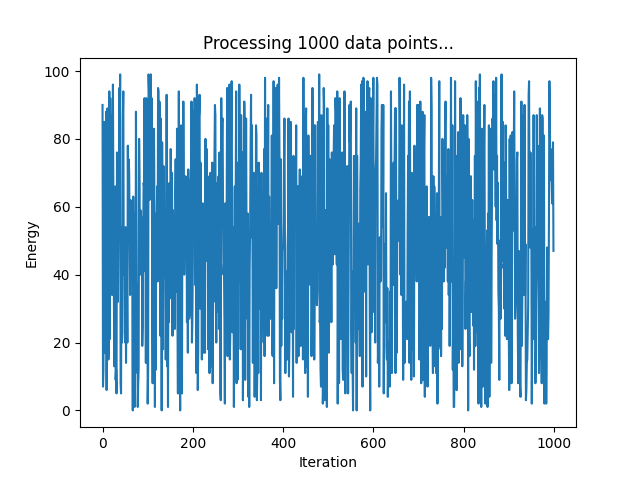
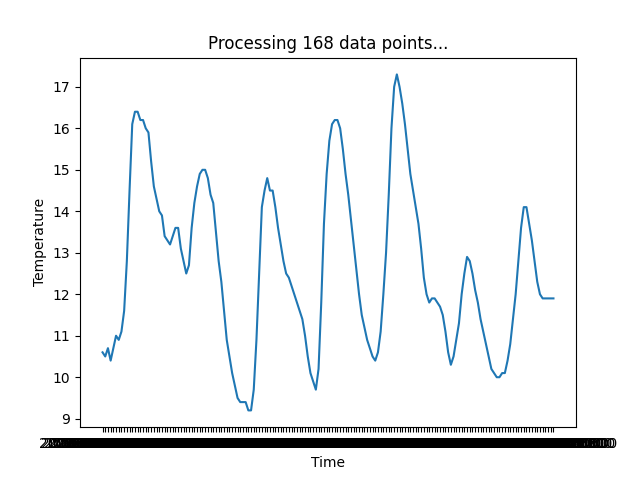
completed module 8 python

diff --git a/Python_Module_08/ex0/construct.py b/Python_Module_08/ex0/construct.py
@@ -1,15 +1,31 @@
+# construct.py
+# Simple utility that reports whether this Python process is running
+# inside a virtual environment (venv) or the global interpreter.
+
 import sys
 import os
 import site
 
+# If sys.prefix equals sys.base_prefix, Python is running in the global
+# (system) environment. When different, we are inside a virtual environment.
 if sys.prefix == sys.base_prefix:
+    # Not inside a venv
     print("\nMATRIX STATUS: You're still plugged in.\n")
-else:   
+else:
+    # Inside a virtual environment
     print("\nMATRIX STATUS:  Welcome to the construct\n")
 
+# Show which Python executable is in use
 print("Current Python:", sys.executable)
-print("Virtual Environment:", os.path.basename(sys.prefix) if sys.prefix != sys.base_prefix else "None detected")
+
+# Show the name of the virtual environment if present, otherwise say none
+print(
+    "Virtual Environment:",
+    os.path.basename(sys.prefix) if sys.prefix != sys.base_prefix else "None detected",
+)
+
 if sys.prefix == sys.base_prefix:
+    # Give guidance for creating and activating a virtual environment
     print("\nWARNING: You're in the global environment!")
     print("The machines can see everything you install.\n")
     print("To enter the construct, run:")
@@ -20,7 +36,9 @@ if sys.prefix == sys.base_prefix:
     print("activate # On Windows\n")
     print("Then run this program again.")
 else:
-   print(f"Environment Path: {sys.prefix}\n")
-   print("SUCCESS: You're in an isolated environment!")
-   print("Safe to install packages without affecting the global system.\n")
-   print("Package installation path:", site.getsitepackages()[0])
+    # In a venv — show path details and where packages will be installed
+    print(f"Environment Path: {sys.prefix}\n")
+    print("SUCCESS: You're in an isolated environment!")
+    print("Safe to install packages without affecting the global system.\n")
+    # site.getsitepackages()[0] is typically where pip installs packages
+    print("Package installation path:", site.getsitepackages()[0])

diff --git a/Python_Module_08/ex2/oracle.py b/Python_Module_08/ex2/oracle.py
@@ -4,10 +4,14 @@ from dotenv import load_dotenv
 
 
 def load_configuration():
+    # Read environment variables from a .env file into os.environ.
+    # This keeps secrets and config out of source code.
+    if not os.path.exists(".env"):
+        print("ERROR: Missing .env file")
+        sys.exit(1)
     load_dotenv()
-    # here where the variables loaded from .env file are used,
-    # we can set MATRIX_MODE to "test" for testing purposes
-    # os.environ["MATRIX_MODE"] = "test"
+    # The configuration dictionary collects relevant settings with
+    # sensible defaults where appropriate.
     config = {
         "mode": os.getenv("MATRIX_MODE", "development"),
         "database": os.getenv("DATABASE_URL"),
@@ -19,23 +23,27 @@ def load_configuration():
 
 
 def validate_config(config):
+    # Simple validation: ensure required secrets (like API keys) exist.
     if not config["api_key"]:
         print("ERROR: Missing API_KEY")
         sys.exit(1)
 
 
 def main():
+    # Entry point for the module when run as a script.
     print("ORACLE STATUS: Reading the Matrix...\n")
 
     config = load_configuration()
     validate_config(config)
 
+    # Show loaded configuration (avoiding printing secrets in real apps).
     print("Configuration loaded:")
     print(f"Mode: {config['mode']}")
     print(f"Database: {config['database']}")
     print(f"Log Level: {config['log_level']}")
     print(f"Zion Endpoint: {config['zion']}")
 
+    # Basic environment checks — placeholders for more advanced checks.
     print("\nEnvironment security check:")
     print("[OK] No hardcoded secrets detected")
     print("[OK] .env file properly configured")

diff --git a/Python_Module_08/ex1/loading.py b/Python_Module_08/ex1/loading.py
@@ -31,19 +31,24 @@ import matplotlib.pyplot as plt
 import requests
 
 print("Analyzing Matrix data...")
+response = requests.get("https://api.open-meteo.com/v1/forecast?latitude=33.57&longitude=-7.59&hourly=temperature_2m")
+data = response.json()
+time = data["hourly"]["time"]
+temp = data["hourly"]["temperature_2m"]
+
 data = pd.DataFrame(
     {
-        "iteration": range(1000),
-        "energy": np.random.randint(0, 100, 1000)
+        "time": time,
+        "temperature": temp
     }
 )
-print("Processing 1000 data points...")
-plt.plot(data["iteration"], data["energy"])
-plt.title("Processing 1000 data points...")
-plt.xlabel("Iteration")
-plt.ylabel("Energy")
+
+print(f"Processing {len(data)} data points...")
+plt.plot(data["time"], data["temperature"])
+plt.title(f"Processing {len(data)} data points...")
+plt.xlabel("Time")
+plt.ylabel("Temperature")
 print("Generating visualization...")
-# plt.show()
 plt.savefig("matrix_analysis.png")
 print("Analysis complete!")
-print("Results saved to: matrix\_analysis.png}")
+print(f"Results saved to: {os.path.abspath('matrix_analysis.png')}")
